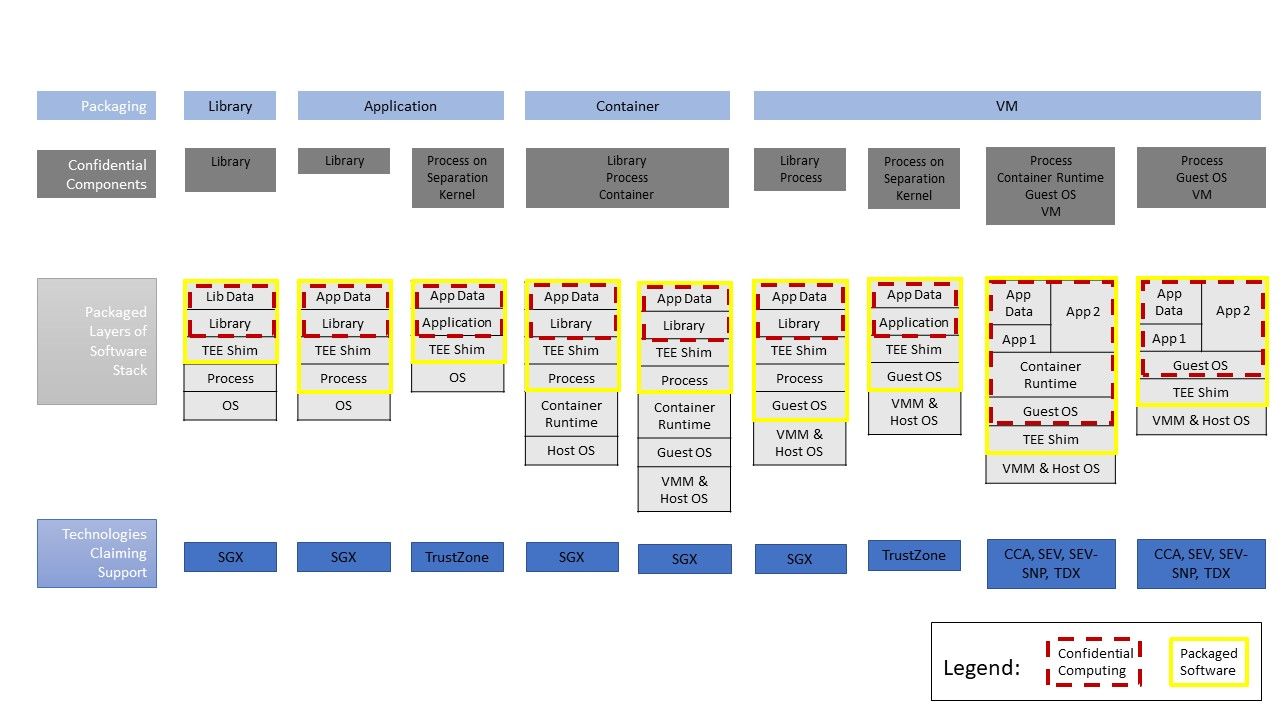
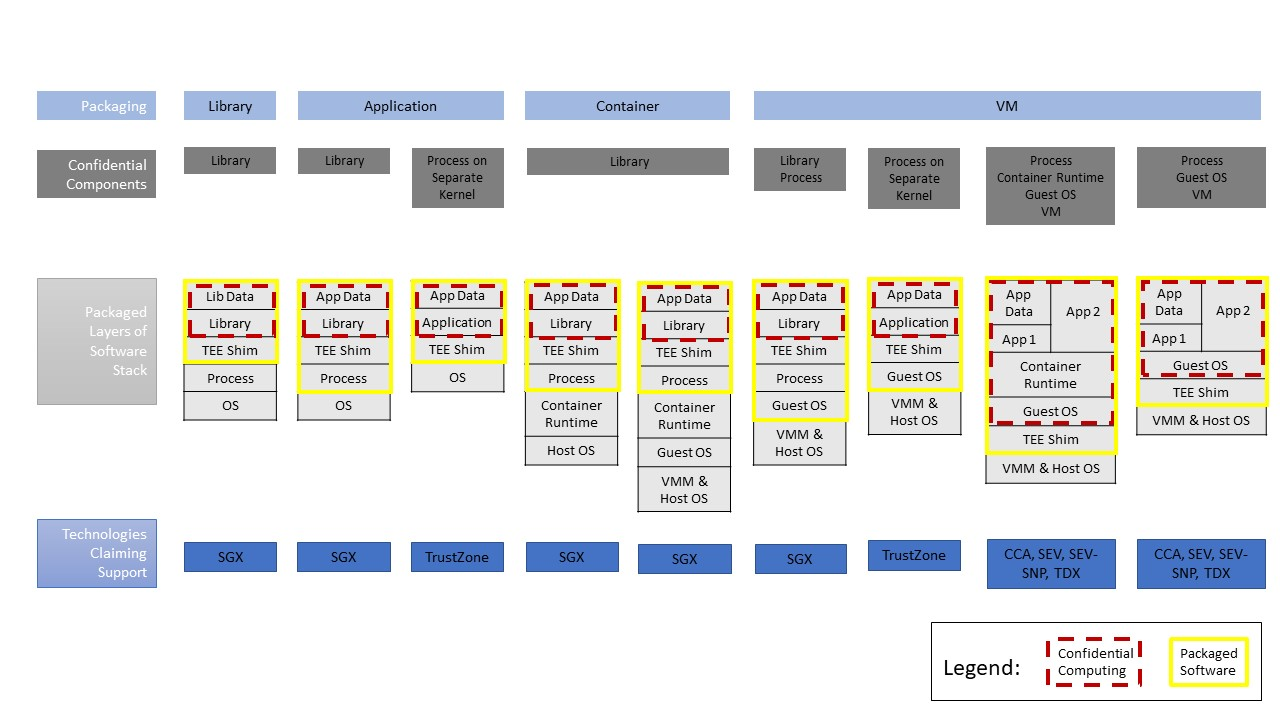
Remove confidential container term
PR #132 introduced the constraint that the "confidential <foo>"
has to be protected from its hosting environment.
As several people have pointed out, there's no known architecture
today that actually protects a container from its hosting environment.

diff --git a/terminology/common-terminology.md b/terminology/common-terminology.md
@@ -6,7 +6,7 @@ As more companies and open source projects begin to use similar terms to describ
 
 The Confidential Computing Consortium has defined [^1] confidential computing as “the protection of data in use by performing computation in a hardware-based Trusted Execution Environment”, and identified three primary attributes for what constitutes a Trusted Execution Environment: data integrity, data confidentiality, and code integrity. As described in Confidential Computing: Hardware-Based Trusted Execution for Applications and Data, four additional attributes may be present (code confidentiality, programmability, recoverability, and attestability) but are not strictly necessary for a computational environment to be classified as confidential computing. 
 
-This paper defines  additional applications of the term confidential as a descriptive prefix, such as “confidential container”, “confidential virtual machine”, etc. Such terms have already begun to appear in marketing materials and commercial products, and in related open source projects. 
+This paper defines  additional applications of the term confidential as a descriptive prefix, such as “confidential virtual machine”. Such terms have already begun to appear in marketing materials and commercial products, and in related open source projects. 
 
 This paper focuses on confidential computing and the associated “confidential xxx” terms to provide a common vocabulary when describing the impact of adding confidential compute to a computer's architecture.   The goal is to sufficiently describe the different potential architectural changes introduced by isolating compute workloads so that the implications of securing complete applications and their data can be properly evaluated.   Memory isolation is one of the new elements introduced by confidential computing.  And being able to protect a running application changes significantly how to approach computer security.   Cyber-attacks often start with a compromise of memory contents (extracting data or modifying memory state to enable execution). Therefore the ability to have effective memory isolation has long been recognized as the best potential mitigation.   But protection of data in use is only one part of an application's security.  An aggregate solution of leveraging confidential computing with the at-rest and in-motion protection is required to fully protect sensitive workloads and their data wherever it goes.
 
@@ -21,9 +21,9 @@ This document defines the following terms:
 
 2. confidential process: a process (e.g., a “Trusted Application”) that is executed inside a hardware-based TEE, such that it is protected from other confidential processes and any hosting environment in the TEE.
 
-3. confidential container: an Open Container Initiative (OCI)-compliant [^2] container that is executed inside a hardware-based TEE, such that it is protected from other confidential containers and any hosting environment in the TEE.
+3. confidential VM: a virtual machine that is executed inside a hardware-based TEE, whereby code and data within the entire VM image is protected from the hypervisor and the host operating system, as well as from other confidential VMs and any hosting environment in the TEE.
 
-4. confidential VM: a virtual machine that is executed inside a hardware-based TEE, whereby code and data within the entire VM image is protected from the hypervisor and the host operating system, as well as from other confidential VMs and any hosting environment in the TEE.
+Note that we do not use the term "confidential container" since there is at present no way in current architectures to protect an Open Container Initiative (OCI)-compliant [^2] container from its hosting environment.
 
 
 ## Isolation Methodologies
@@ -112,7 +112,5 @@ Confidential Computing is a paradigm that is enabled by a fundamental architectu
 [^2]: Open Container Initiative, <https://opencontainers.org/>.
 
 [^3]: Nieles, M., Dempsey, K., and V. Pilliteri, "An Introduction to Information Security", NIST 800-12 Rev.1, June 2017, <https://csrc.nist.rip/publications/detail/sp/800-12/rev-1/final>.
-
-[^4]: Rescorla, E., "The Transport Layer Security (TLS) Protocol Version 1.3", RFC 8446, DOI 10.17487/RFC8446, August 2018, <https://www.rfc-editor.org/info/rfc8446>.
 
 Copyright (c) contributors to the Confidential Computing Consortium. Licensed under CC-BY-4.0.
